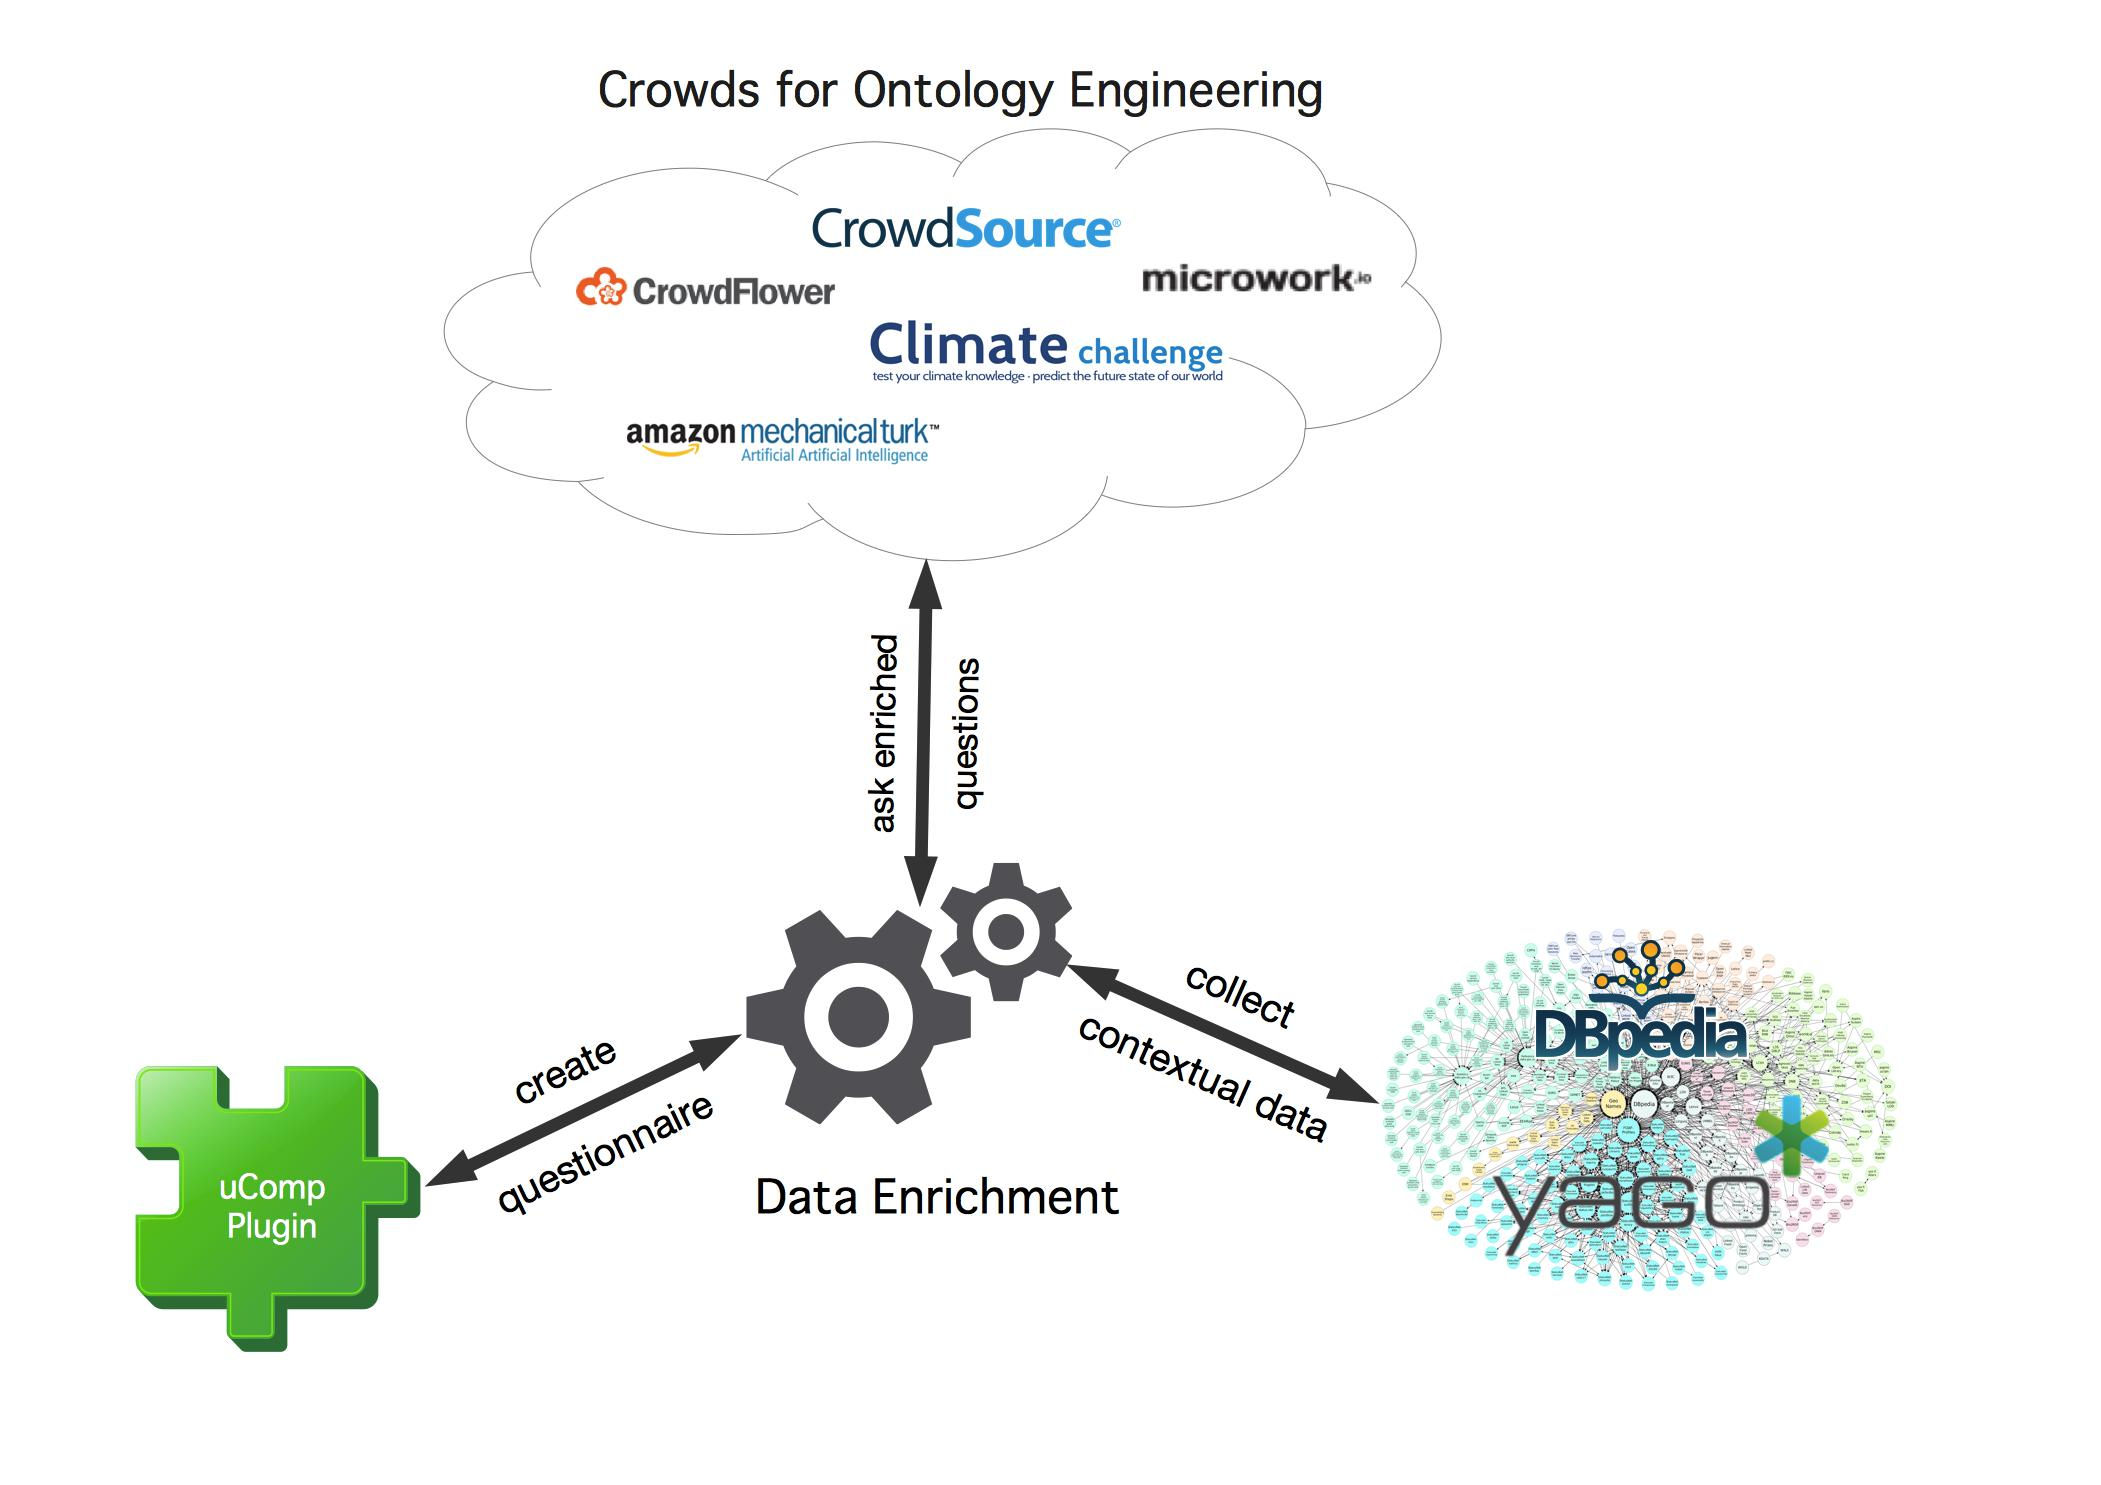
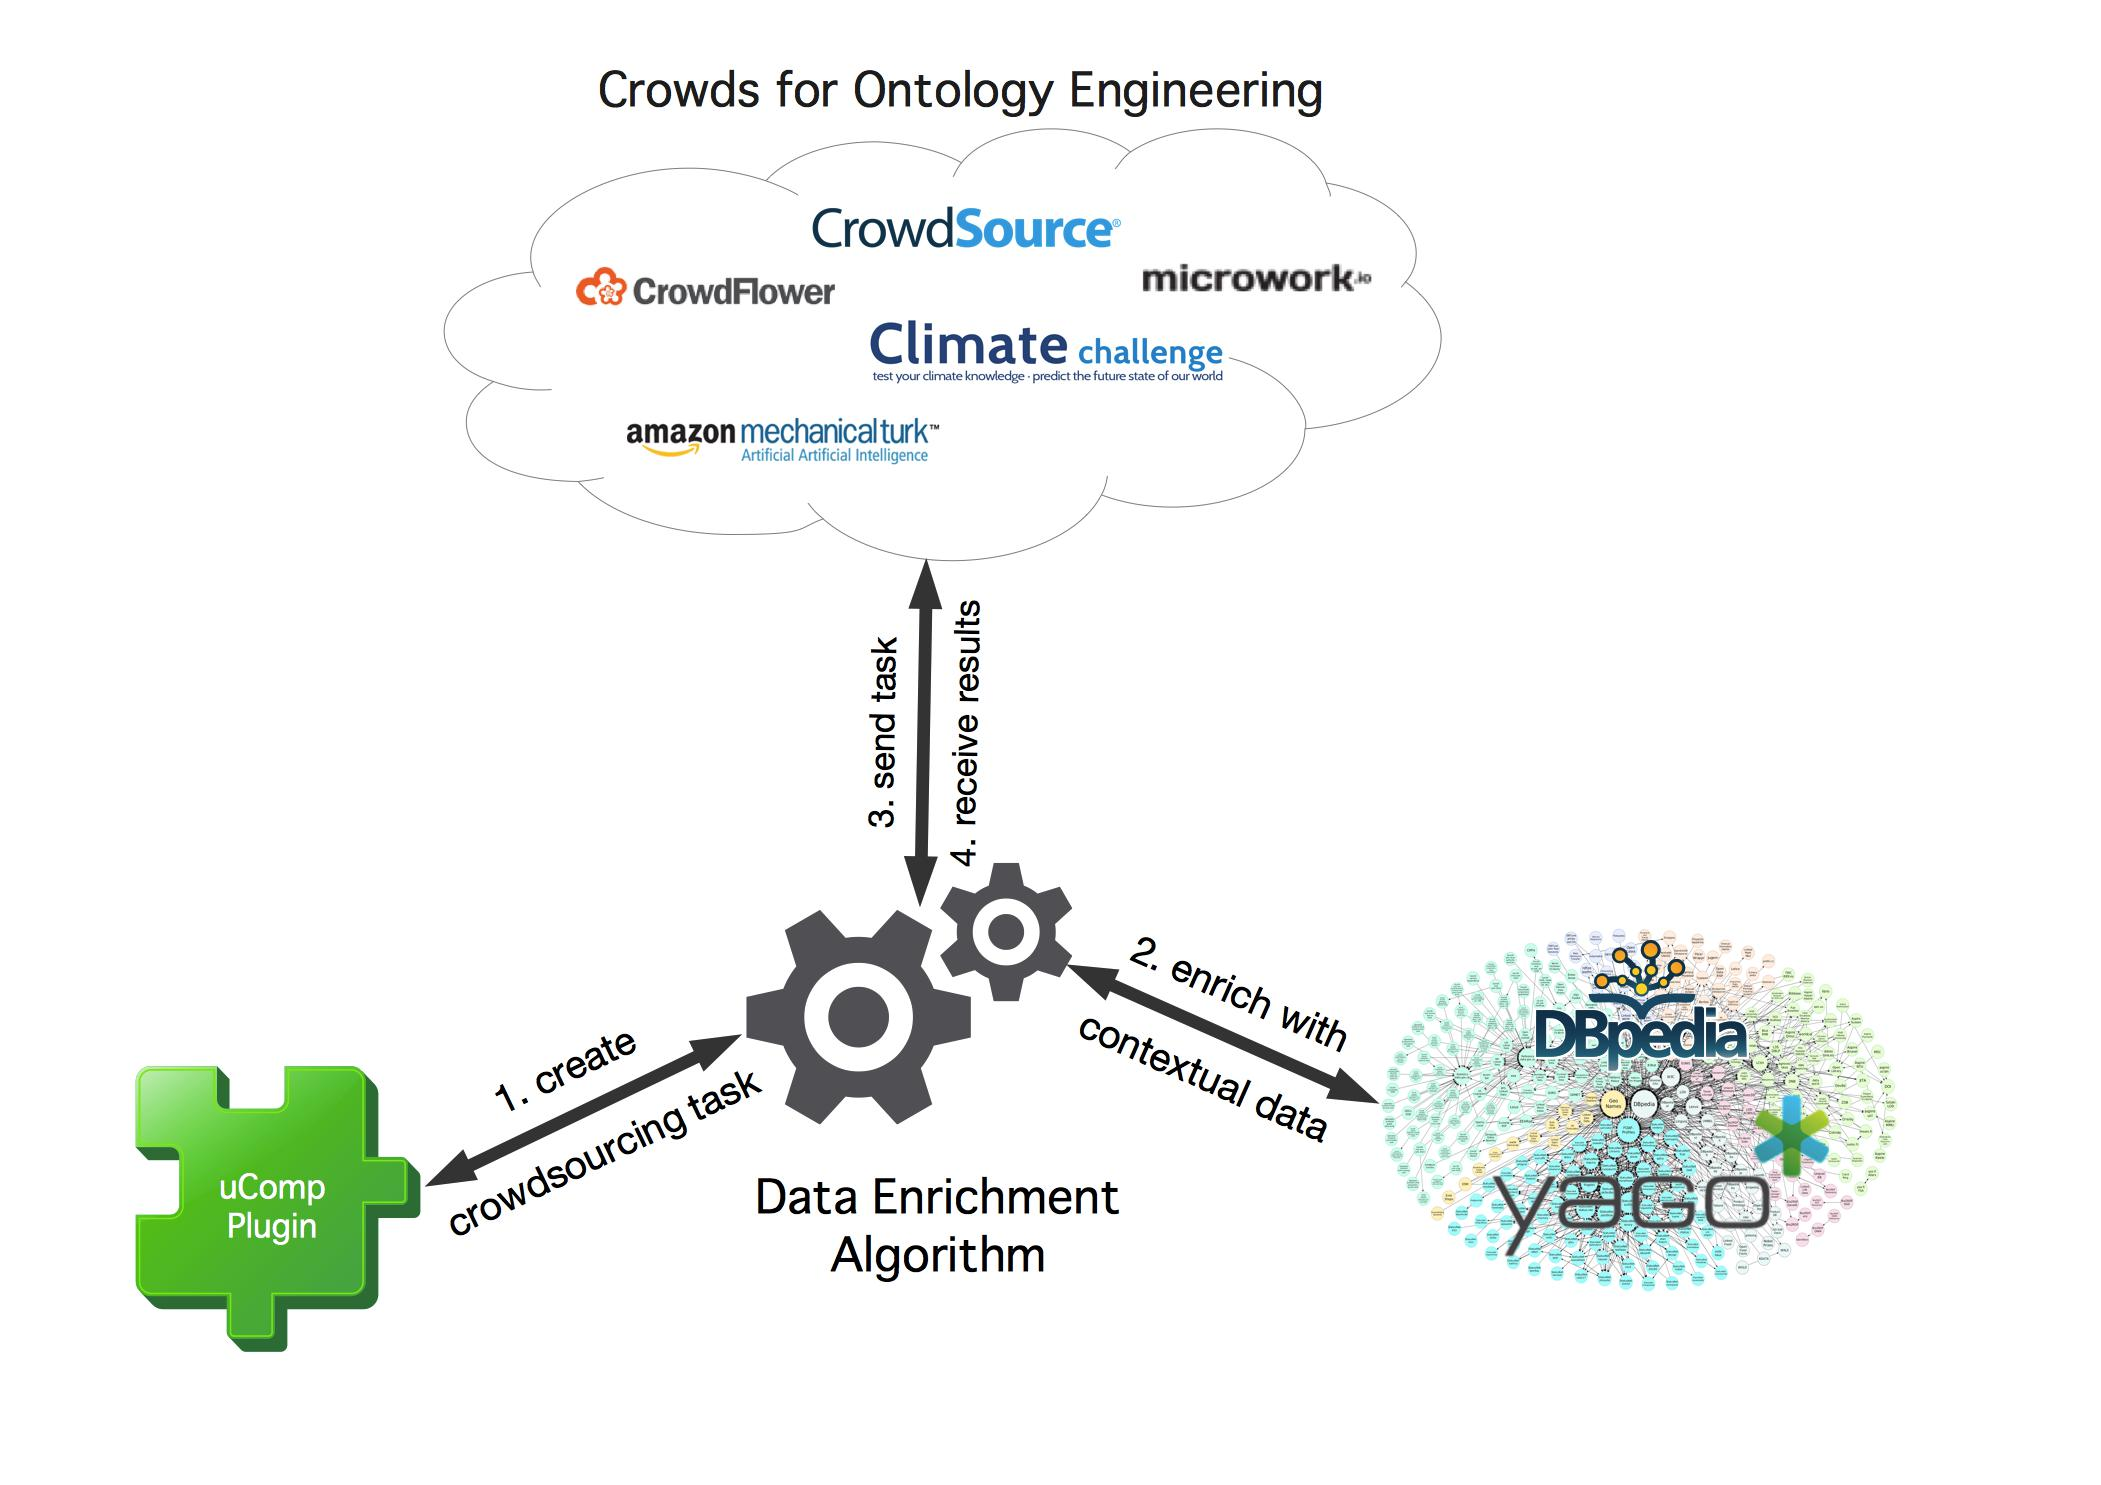
Finished describing the new workflow

diff --git a/Proposal/proposal.tex b/Proposal/proposal.tex
@@ -37,7 +37,7 @@ The advance of embedding Information Technology into all kinds of electronic dev
 		\item Games with a purpose~(GWAP) and
 		\item Creative Systems
 \end{inparaenum}. 
-First, Voting Systems like Amazon Mechanical Turk~(MTurk)~\footnote{https://www.mturk.com/} use majority voting to consider the answer with the highest number of votes as the correct one. Second, Information Sharing Systems enable users to share and distribute knowledge among the crowd. Third, Games with a purpose~(GWAP) is another application of crowdsourcing where crowd~workers contribute by playing a small game in order to solve some meaningful tasks. Fourth, Creative Systems include tasks like labeling an image, writing algorithms or editing text. 
+First, Voting Systems like Amazon Mechanical Turk~(MTurk)\footnote{\url{https://www.mturk.com/}} use majority voting to consider the answer with the highest number of votes as the correct one. Second, Information Sharing Systems enable users to share and distribute knowledge among the crowd. Third, Games with a purpose~(GWAP) is another application of crowdsourcing where crowd~workers contribute by playing a small game in order to solve some meaningful tasks. Fourth, Creative Systems include tasks like labeling an image, writing algorithms or editing text. 
 
 An inherent factor of the Semantic Web is its large amount of Linked Data~(e.g. DBpedia~\cite{lehmann2015dbpedia}). Semantic technologies have emerged in various application including domain modeling, data integration, enhanced search and content management~\cite{semantic-web-usecases}. Managing Semantic Web tasks is considered resource intensive and often requires human involvement due to its knowledge intensive and context specific nature. On the other side Crowdsourcing aims at solving simple and small tasks~(microtasks) in a cost-effective way. However, \citet{sarasua2015crowdsourcing} shows major research challenges and opportunities in combining Crowdsourcing and Semantic Web technologies. The most important challenges include 
 \begin{inparaenum}[1)]
@@ -69,13 +69,6 @@ The evaluation is based on the algorithm of \emph{RE3} and is related to the res
 
 \section{Methodological Approach}
 \label{sec:methodology}
-% 	-) Make reference to each RQs
-% 	-) Extend evaluation part 
-%		*) Add references to ontologies that we already use
-%		*) Bootstrapped based evaluation will be performed to make sure that the obtained results are generalizable 
-% 	-) Add a picture about the concrete solution (at the end of the section) as we discussed 
-
-
 The expected results are derived from the following methodology and approach:
 \paragraph{Literature Research}
 For a complete picture on different approaches of how contextual information can be used to improve crowdsourcing tasks, an extensive literature research is performed. For example one approach from a different research area but also applicable with focus on solving crowdsourcing tasks is ontology matching based on neighboring nodes~\cite{hoffmann2010context}. Although \emph{RQ1} is directly addressed by this task, literature study is done continuously throughout the whole thesis. 
@@ -84,16 +77,20 @@ To answer \emph{RQ2}, a detailed requirement analysis which builds up the starti
 \paragraph{Identify different approaches for the implementation}
 Based on the insights from literature research, various options for building the extension are proposed. Each approach is described in detail, concluding with estimated integration efforts. Based on this estimation, the actual development of the extension is performed. 
 \paragraph{Integrate approach in the uComp Protege plugin}
-The practical part of this thesis includes extending the uComp Protege plugin to take contextual information into account for performing crowdsourcing tasks. This extension implements all gathered requirements from former requirement analysis. In addition, an overview of the overall plugin architecture as well as the crowdsourcing workflow is given. 
+The practical part of this thesis includes extending the uComp Protege plugin to take contextual information into account for performing crowdsourcing tasks. This extension implements all gathered requirements from former requirement analysis.
 
-%Describe here new solution
+As a starting point,~\hyperref[fig:new_architecture]{Figure~\ref*{fig:new_architecture}} shows the basic workflow of a prototypical implementation. Based on the existing implementation it begins with collecting the required data from the input ontology to create the initial crowdsourcing task. Depending on the type of validation~(e.g. Domain Relevance Validation, Subsumption Validation, InstanceOf Validation, Relation Label Validation or Domain/Range Validation) different contexts may be necessary. Then, a novel \emph{Data Enrichment Algorithm} proposed in this thesis takes the initial crowdsourcing task together with the validation type and adds descriptions with the help of external data sources~(e.g. DBPedia\footnote{\url{http://wiki.dbpedia.org/}} and Yago\footnote{\url{https://www.mpi-inf.mpg.de/departments/databases-and-information-systems/research/yago-naga/yago/}}). Next, the actual crowdsourcing process happens by sending tasks to crowdsourcing platforms through a uniform API. Finally, harvested results are processed and presented to the ontology engineer. 
 \paragraph{Evaluate performance metrics}
 To justify the improvements asked in \emph{RQ3}, a detailed evaluation based on the metrics in~\cite{wohlgenannt2016crowd} is conducted. 
 
-% Picture of a concrete solution %
+% 	-) Extend evaluation part 
+%		*) Add references to ontologies that we already use
+%		*) Bootstrapped based evaluation will be performed to make sure that the obtained results are generalizable 
+
+
 \begin{figure}[H]
 	 \includegraphics[width=\textwidth]{graphics/new_architecture}
-	 \caption{Description}\label{fig:new_architecture}
+	 \caption{Basic workflow in adding contextual information to crowdsourcing tasks}\label{fig:new_architecture}
 \end{figure}
 
 \section{State of the art}
